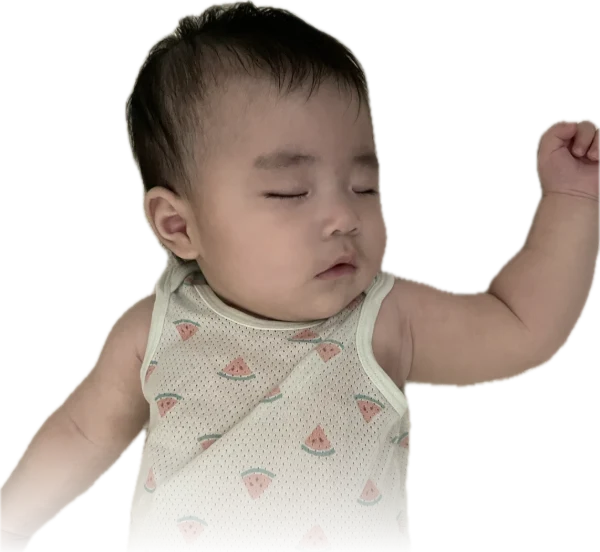
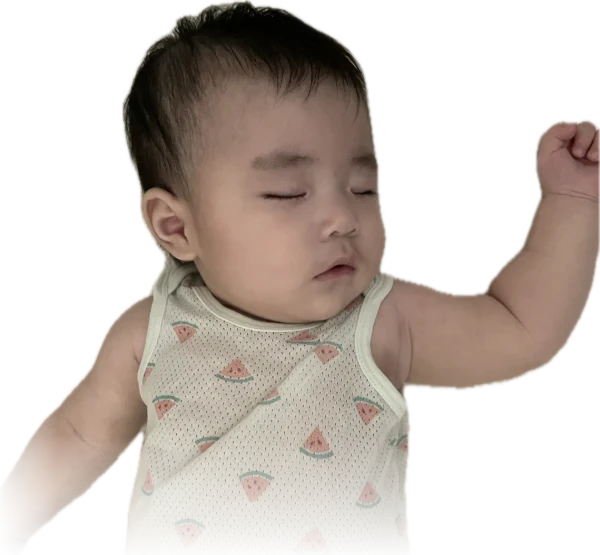
자는 태오 사진: 잘린 주먹이 안 보이게 카드 오른쪽 밖으로 살짝 밀기
Claude-Session: https://claude.ai/code/session_01L974RKAuc4pU7xHs97Xkm5

diff --git a/data/trip.js b/data/trip.js
@@ -55,7 +55,7 @@ window.TRIP = {
       { photo: 'assets/photos/taeo/hero-peek.webp', w: 534, h: 607, alt: '고개를 돌려 쳐다보는 태오', bubbles: ['누구 왔어요?', '할머니?', '나 보러 왔어요?'] },
     ],
     // 밤(21시~6시)에는 자는 태오, 여행이 끝나면 번쩍 안긴 태오로 바뀜
-    night: { photo: 'assets/photos/taeo/sleep.webp', w: 600, h: 552, from: 21, to: 6, alt: '수박 옷 입고 쌔근쌔근 자는 태오', bubbles: ['쿨쿨… 내일 만나요', '제주 꿈 꾸는 중', '쉿, 자는 중이에요'] },
+    night: { photo: 'assets/photos/taeo/sleep.webp', w: 600, h: 552, edge: 'r', from: 21, to: 6, alt: '수박 옷 입고 쌔근쌔근 자는 태오', bubbles: ['쿨쿨… 내일 만나요', '제주 꿈 꾸는 중', '쉿, 자는 중이에요'] },
     after: { photo: 'assets/photos/taeo/hero-hold.webp', w: 600, h: 551, alt: '번쩍 안겨서 활짝 웃는 태오', bubbles: ['또 가요!', '정말 재밌었어요!', '다음엔 어디 가요?'] },
   },
   // 화면마다 오른쪽 위에서 인사하는 태오 (누르면 다른 말)

diff --git a/assets/app.js b/assets/app.js
@@ -312,7 +312,7 @@
         <p class="inv-note">${esc(H.note || `${nights}박 ${dates.length}일 · ${T.tagline}`)}</p>
         ${T.share ? `<button type="button" class="kakao-share" data-share>${ICON.talk}<span>카톡으로 초대하기</span></button>` : ''}
       </div>
-      ${look && look.photo ? `<figure class="inv-photo">
+      ${look && look.photo ? `<figure class="inv-photo${look.edge ? ` edge-${esc(look.edge)}` : ''}">
         <p class="inv-bubble" data-bubble aria-live="polite">${esc(pickBubble())}</p>
         <span class="inv-flip f0" data-flip><img data-hero-img src="${esc(look.photo)}" alt="${esc(look.alt || '')}" width="${look.w}" height="${look.h}" fetchpriority="high"></span>
       </figure>` : ICON.mandarin}

diff --git a/assets/style.css b/assets/style.css
@@ -1664,3 +1664,6 @@ html.calm .pb.tbd, html.calm .pb-badge.on { animation: none; }
 .blk-form textarea { flex: 1; min-height: 46px; }
 .blk-form .btn { flex: none; }
 .blk-day { display: block; margin-top: 16px; font-weight: 800; font-size: var(--fs-sm); }
+/* 사진 끝이 잘린 태오(자는 사진 주먹)는 카드 오른쪽 밖으로 살짝 밀어서 잘린 곳이 안 보이게 */
+.inv-photo.edge-r .inv-flip { position: relative; left: 15%; }
+.inv-photo.edge-r .inv-bubble { right: 18%; }

diff --git a/sw.js b/sw.js
@@ -4,7 +4,7 @@
  * - 사진·아이콘·글꼴: 저장해 둔 것 먼저 (빠름) → 뒤에서 새로 받아 둠
  * - 의견·투표·지도처럼 실시간인 것은 건드리지 않음 (사이트가 따로 마지막 내용을 기억해 둠)
  */
-const VERSION = '3f313aa9cd';
+const VERSION = 'a3163399fa';
 const CORE_CACHE = `jeju-core-${VERSION}`;
 const MEDIA_CACHE = 'jeju-media-v1';
 const PHOTO_CACHE = 'jeju-family-photos-v1'; // 가족 사진첩 미리보기 (이 폰에만)
